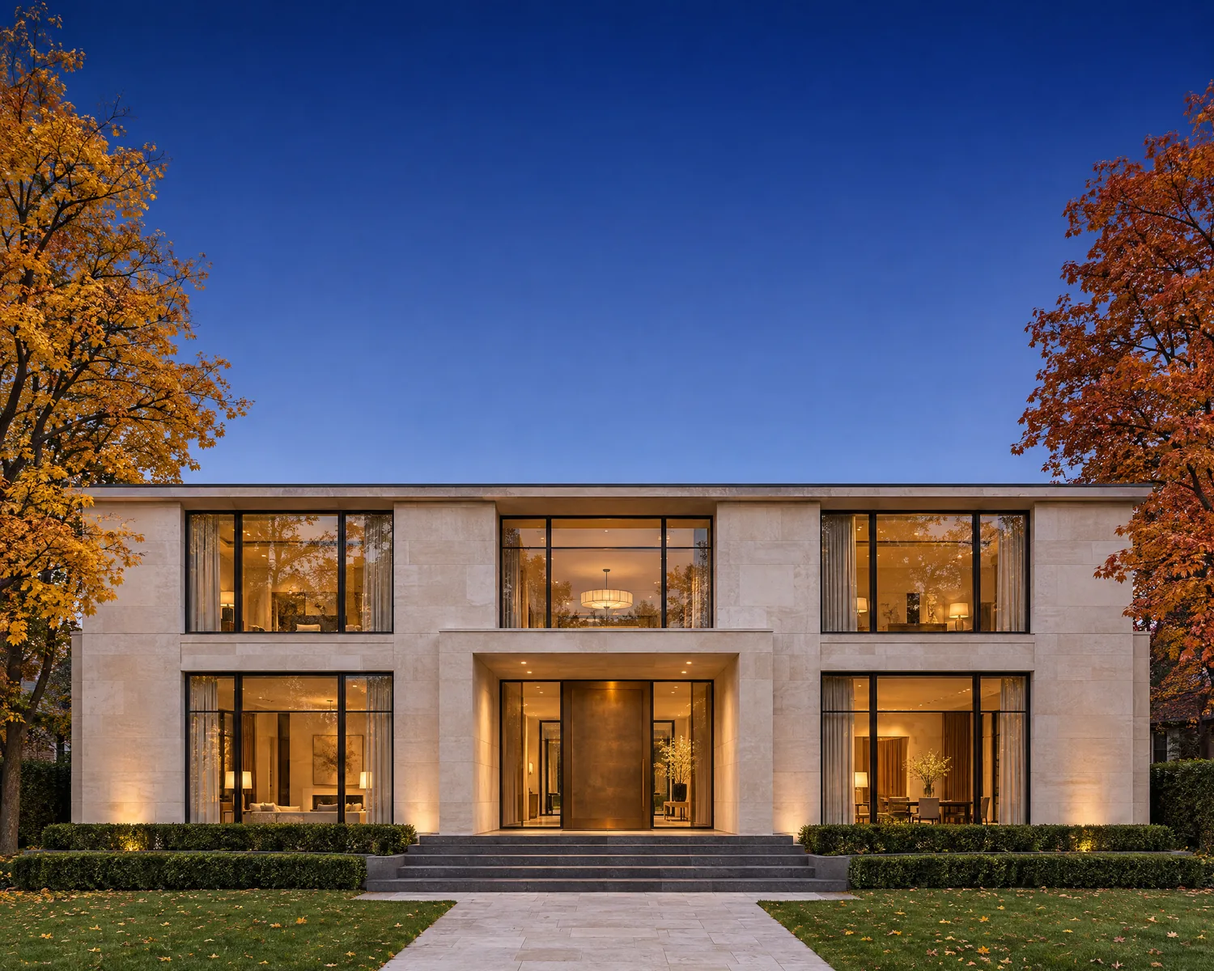
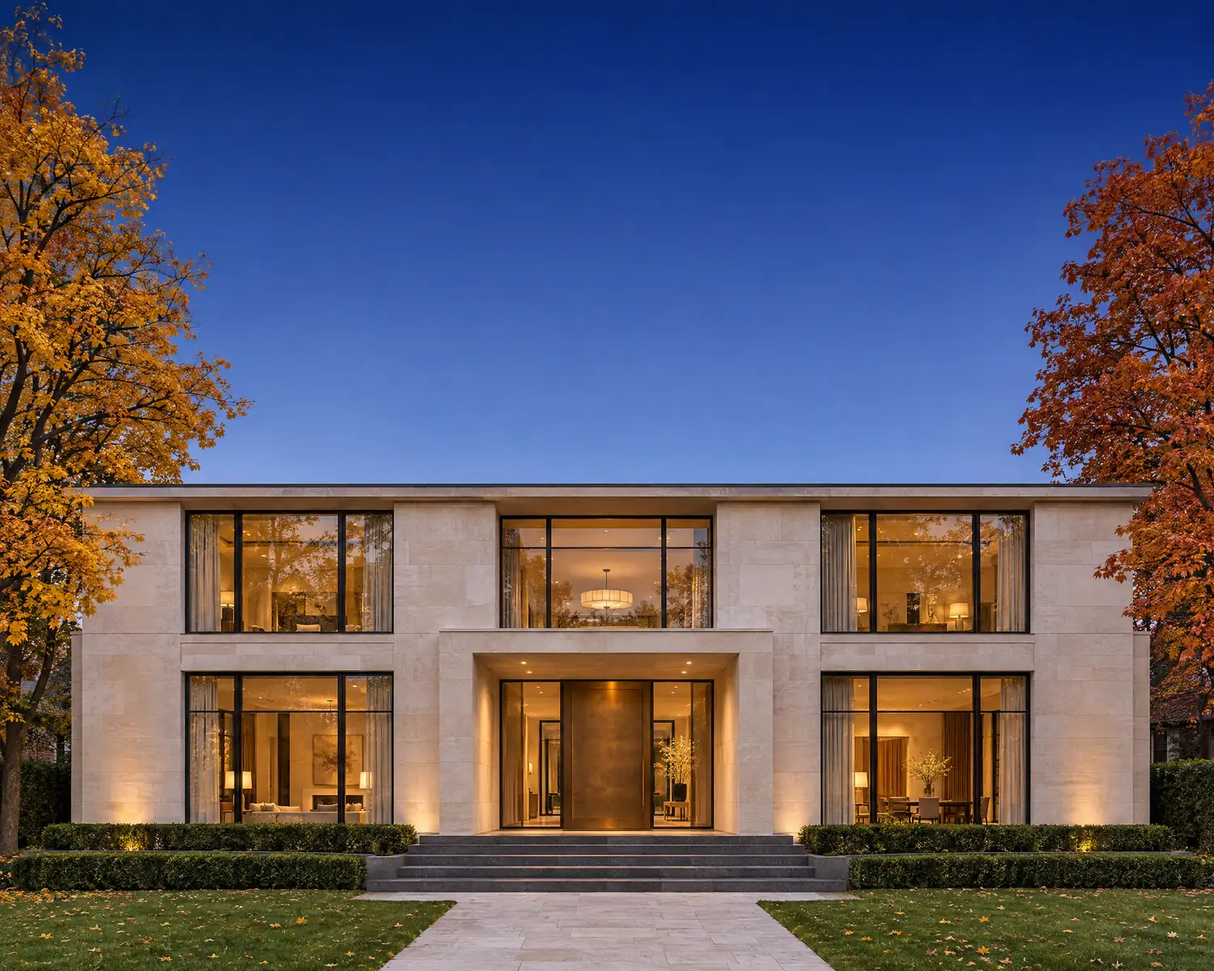
Speed up first load: defer walkthrough frames, non-blocking fonts, lighter hero
- Walkthrough frames load on the first scroll, swipe or key press instead of at page load
  (10.4 MB on phones was downloading before the visitor did anything)
- Google Fonts stylesheet no longer blocks first paint
- Hero layers recompressed (590 KB to 400 KB); phone-sized walkthrough poster
- Logo link's accessible name now includes its visible text

diff --git a/docs/prd.html b/docs/prd.html
@@ -1,0 +1,297 @@
+<title>DV Tile Website PRD</title>
+<meta name="claude:viewport-fit-sides" content="cover">
+<link rel="preconnect" href="https://fonts.googleapis.com">
+<link rel="stylesheet" href="https://fonts.googleapis.com/css2?family=Familjen+Grotesk:wght@500;600&family=Newsreader:opsz,wght@6..72,400;6..72,500&family=Pinyon+Script&display=swap">
+<style>
+/* Layout: a single reading column with a sticky contents rail on wide screens. */
+:root {
+  --bg: #f2f2ef; --surface: #fbfbf9; --fg: #1f2423; --muted: #545a57;
+  --line: rgba(31, 36, 35, 0.14); --accent: #22403a; --bronze: #8c6b44; --tag: #e4e7e2;
+  --display: "Familjen Grotesk", "Helvetica Neue", Arial, sans-serif;
+  --text: "Newsreader", Georgia, serif;
+  --script: "Pinyon Script", cursive;
+}
+@media (prefers-color-scheme: dark) { :root:not([data-theme="light"]) {
+  --bg: #121a18; --surface: #18221f; --fg: #e9ebe6; --muted: #a7aea9;
+  --line: rgba(233, 235, 230, 0.14); --accent: #9fc3b6; --bronze: #c9a274; --tag: #22302c; color-scheme: dark } }
+:root[data-theme="dark"] {
+  --bg: #121a18; --surface: #18221f; --fg: #e9ebe6; --muted: #a7aea9;
+  --line: rgba(233, 235, 230, 0.14); --accent: #9fc3b6; --bronze: #c9a274; --tag: #22302c; color-scheme: dark }
+* { box-sizing: border-box; }
+body { background: var(--bg); color: var(--fg); font: 400 1.0625rem/1.65 var(--text); }
+.wrap { max-width: 72rem; margin: 0 auto; padding-block: 48px 96px;
+  padding-left: max(16px, env(safe-area-inset-left, 0px)); padding-right: max(16px, env(safe-area-inset-right, 0px));
+  display: grid; grid-template-columns: 14rem minmax(0, 1fr); gap: 56px; }
+header.doc { grid-column: 1 / -1; padding-bottom: 32px; border-bottom: 1px solid var(--line); }
+.brand { font: 600 0.9375rem/1 var(--display); letter-spacing: 0.18em; color: var(--accent); }
+.brand span { display: block; font: 400 1.25rem/1.2 var(--script); letter-spacing: 0; color: var(--bronze); }
+h1 { font: 500 clamp(2.4rem, 1.4rem + 3.6vw, 4.2rem)/1 var(--display); letter-spacing: -0.03em; margin: 28px 0 16px; text-wrap: balance; }
+.meta { display: flex; flex-wrap: wrap; gap: 8px 24px; font: 500 0.875rem/1.4 var(--display); color: var(--muted); }
+nav.toc { position: sticky; top: calc(24px + env(safe-area-inset-top, 0px)); align-self: start; font: 500 0.875rem/1.4 var(--display); }
+nav.toc ol { list-style: none; margin: 0; padding: 0; display: grid; gap: 2px; counter-reset: s; }
+nav.toc li { counter-increment: s; }
+nav.toc a { display: flex; gap: 10px; padding: 6px 0; color: var(--muted); text-decoration: none; }
+nav.toc a::before { content: counter(s); color: var(--bronze); width: 1.4em; }
+nav.toc a:hover { color: var(--fg); }
+main { min-width: 0; counter-reset: sec; }
+section { padding: 8px 0 40px; border-bottom: 1px solid var(--line); margin-bottom: 40px; }
+h2 { font: 500 1.875rem/1.15 var(--display); letter-spacing: -0.02em; margin: 0 0 18px; text-wrap: balance; counter-increment: sec; }
+h2::before { content: counter(sec) "  "; color: var(--bronze); white-space: pre; }
+h3 { font: 600 1.125rem/1.3 var(--display); margin: 28px 0 8px; }
+p, li { max-width: 40em; }
+p { margin: 0 0 14px; }
+ul { padding-left: 1.2em; margin: 0 0 14px; }
+li { margin-bottom: 6px; }
+strong { font-weight: 500; color: var(--fg); }
+.tblwrap { overflow-x: auto; margin: 12px 0 18px; }
+table { border-collapse: collapse; width: 100%; min-width: 34rem; font-size: 0.9688rem; }
+th, td { text-align: left; vertical-align: top; padding: 10px 12px 10px 0; border-bottom: 1px solid var(--line); }
+th { font: 600 0.8125rem/1.3 var(--display); color: var(--muted); letter-spacing: 0.02em; }
+td:first-child { font-family: var(--display); font-weight: 500; white-space: nowrap; }
+.tag { display: inline-block; padding: 2px 9px; border-radius: 999px; background: var(--tag); font: 600 0.75rem/1.6 var(--display); color: var(--fg); white-space: nowrap; }
+.tag.p0 { background: var(--accent); color: var(--bg); }
+.tag.done { background: transparent; border: 1px solid var(--accent); color: var(--accent); }
+.callout { background: var(--surface); border: 1px solid var(--line); border-radius: 10px; padding: 18px 20px; margin: 16px 0; }
+.callout p:last-child { margin: 0; }
+a { color: var(--accent); text-underline-offset: 0.2em; }
+a:focus-visible { outline: 2px solid var(--bronze); outline-offset: 3px; border-radius: 3px; }
+@media (max-width: 860px) { .wrap { grid-template-columns: 1fr; gap: 24px; } nav.toc { position: static; } }
+</style>
+
+<div class="wrap">
+  <header class="doc">
+    <div class="brand">DV TILE<span>Don Valley Tile</span></div>
+    <h1>dvtile.ca product requirements</h1>
+    <div class="meta"><span>Version 1.0</span><span>8 November 2026</span><span>Owner: DV Tile</span><span>Status: v1 built, in review</span></div>
+  </header>
+
+  <nav class="toc" aria-label="Contents">
+    <ol>
+      <li><a href="#summary">Summary</a></li>
+      <li><a href="#audience">Audience</a></li>
+      <li><a href="#goals">Goals and metrics</a></li>
+      <li><a href="#positioning">Positioning</a></li>
+      <li><a href="#brand">Brand identity</a></li>
+      <li><a href="#scope">Site structure</a></li>
+      <li><a href="#requirements">Requirements</a></li>
+      <li><a href="#content">Content and imagery</a></li>
+      <li><a href="#seo">Local SEO</a></li>
+      <li><a href="#tech">Technical</a></li>
+      <li><a href="#roadmap">Roadmap</a></li>
+      <li><a href="#risks">Risks and open questions</a></li>
+    </ol>
+  </nav>
+
+  <main>
+    <section id="summary">
+      <h2>Summary</h2>
+      <p>dvtile.ca is the main sales tool for DV Tile (Don Valley Tile), a Toronto flooring contractor that installs marble, granite, natural stone, large-format porcelain and tile. The site exists to turn affluent GTA homeowners, and the designers and builders who work for them, into booked site visits.</p>
+      <p>Version 1 replaces a showroom-style page with a contractor site built around craftsmanship. It opens on a limestone manor at blue hour, walks the visitor through eight close-up installation details, and presents the full Olympia Tile + Stone catalogue as something DV Tile supplies and installs.</p>
+      <div class="callout"><p><strong>One job:</strong> a homeowner in Forest Hill, Rosedale or Oakville finishes the page believing DV Tile can be trusted with Calacatta in their ensuite, and books a site visit.</p></div>
+    </section>
+
+    <section id="audience">
+      <h2>Audience</h2>
+      <h3>Primary: affluent GTA homeowners</h3>
+      <ul>
+        <li>Owners of detached homes in Forest Hill, Rosedale, Lawrence Park, the Bridle Path, Hoggs Hollow, the Kingsway, Kleinburg, King City and Oakville.</li>
+        <li>Mid-renovation or planning one: ensuites, kitchens, whole-floor stone, terraces and pools. Often a new build or a gut renovation.</li>
+        <li>They buy on trust and evidence of care, not price. Their fear is a visible mistake in an expensive material: lippage, mismatched veins, a leaking shower.</li>
+        <li>They browse on a phone in the evening and come back on a laptop to decide.</li>
+      </ul>
+      <h3>Secondary: the trade</h3>
+      <ul>
+        <li>Interior designers and architects who need an installer who follows drawings and protects their reputation.</li>
+        <li>Custom home builders who need a reliable stone sub-trade with capacity.</li>
+      </ul>
+      <h3>What each needs from the site</h3>
+      <div class="tblwrap"><table>
+        <thead><tr><th>Visitor</th><th>Question they arrive with</th><th>Where the site answers it</th></tr></thead>
+        <tbody>
+          <tr><td>Homeowner</td><td>Will this look as good as the slab did?</td><td>Detail walkthrough, process, FAQ on flatness</td></tr>
+          <tr><td>Homeowner</td><td>Can they get the stone I want?</td><td>Olympia catalogue section</td></tr>
+          <tr><td>Homeowner</td><td>Do they work in my area?</td><td>Service areas, schema areaServed</td></tr>
+          <tr><td>Designer</td><td>Will they follow my layout and detailing?</td><td>Process, FAQ, trade line in contact</td></tr>
+          <tr><td>Builder</td><td>Can they price from drawings?</td><td>Contact copy, form project type</td></tr>
+        </tbody>
+      </table></div>
+    </section>
+
+    <section id="goals">
+      <h2>Goals and metrics</h2>
+      <div class="tblwrap"><table>
+        <thead><tr><th>Goal</th><th>Metric</th><th>Target (first 90 days)</th></tr></thead>
+        <tbody>
+          <tr><td>Generate qualified leads</td><td>Site visit requests submitted</td><td>Baseline in month 1, then +25% per quarter</td></tr>
+          <tr><td>Convert visitors</td><td>Form submissions ÷ unique visitors</td><td>2% or better</td></tr>
+          <tr><td>Win local search</td><td>Ranking for "marble floor installation Toronto" and neighbourhood variants</td><td>Top 10 in Google for 5 tracked terms</td></tr>
+          <tr><td>Engage with the work</td><td>Share of visitors who reach the last walkthrough stop</td><td>40% or better</td></tr>
+          <tr><td>Stay fast</td><td>Largest Contentful Paint on 4G mobile</td><td>Under 2.5 s</td></tr>
+        </tbody>
+      </table></div>
+      <p>Targets are proposals to confirm once a month of real traffic exists. Measuring them needs privacy-respecting analytics, which v1 deliberately does not include (see Roadmap).</p>
+    </section>
+
+    <section id="positioning">
+      <h2>Positioning</h2>
+      <p><strong>Statement:</strong> For GTA homeowners finishing a fine home in stone, DV Tile is the installation crew that treats a floor like joinery: laid out on paper first, prepared properly, and set flat to the millimetre, with the full Olympia range to choose from.</p>
+      <h3>Proof points the site must carry</h3>
+      <ul>
+        <li>A layout drawing and dry-laid slabs approved before any cut.</li>
+        <li>Lippage under a millimetre on large format, through levelling and full mortar coverage.</li>
+        <li>Showers waterproofed and flood-tested before tile.</li>
+        <li>One crew from preparation to sealing.</li>
+        <li>Official installation partner of Olympia Tile + Stone, plus Centura.</li>
+      </ul>
+      <h3>Voice</h3>
+      <p>Calm, specific, tradesman-precise. Talk in materials, millimetres and steps, never in superlatives. No invented statistics, testimonials or awards: add them only when they are real.</p>
+    </section>
+
+    <section id="brand">
+      <h2>Brand identity</h2>
+      <h3>Logo</h3>
+      <p>Four square tiles in a 2 × 2 grid with a bronze marble vein running through them in an S-curve, cut cleanly at each grout joint. The vein stands for the Don Valley and the parkway that follows it; matching it across four tiles shows the book-matching skill DV Tile sells. Wordmark: DV TILE in wide-tracked Familjen Grotesk, with Don Valley Tile in Pinyon Script beneath.</p>
+      <ul>
+        <li>Light backgrounds: green tiles, bronze vein. Dark backgrounds: pale marble tiles, bronze vein.</li>
+        <li>Files: <code>brand/mark.svg</code>, <code>brand/mark-reverse.svg</code>, and horizontal and stacked PNG lockups in <code>brand/</code>.</li>
+        <li>Clear space: the width of one tile on every side. Minimum mark size: 24 px.</li>
+      </ul>
+      <h3>Colour</h3>
+      <div class="tblwrap"><table>
+        <thead><tr><th>Token</th><th>Hex</th><th>Use</th></tr></thead>
+        <tbody>
+          <tr><td>Verde</td><td>#22403A</td><td>Primary brand, buttons, logo tiles</td></tr>
+          <tr><td>Verde deep</td><td>#182F2A</td><td>Product section, walkthrough fallback</td></tr>
+          <tr><td>Calacatta</td><td>#F2F2EF</td><td>Page surface</td></tr>
+          <tr><td>Graphite</td><td>#1F2423</td><td>Body text</td></tr>
+          <tr><td>Bronze</td><td>#8C6B44</td><td>Accent: vein, focus rings, step numbers</td></tr>
+          <tr><td>Travertine</td><td>#B8B2A6</td><td>Quiet dividers</td></tr>
+        </tbody>
+      </table></div>
+      <h3>Type</h3>
+      <p>Familjen Grotesk for display and interface, Newsreader for reading text and walkthrough titles, Pinyon Script only for the Don Valley Tile signature. All three are free under the SIL Open Font License.</p>
+    </section>
+
+    <section id="scope">
+      <h2>Site structure</h2>
+      <p>A single long page, in this order. Each section has an anchor for the nav and for sharing.</p>
+      <div class="tblwrap"><table>
+        <thead><tr><th>Section</th><th>Purpose</th><th>Status</th></tr></thead>
+        <tbody>
+          <tr><td>Hero</td><td>Set the register: limestone manor, DV TILE behind the roofline, glass nav, booking button</td><td><span class="tag done">Built</span></td></tr>
+          <tr><td>Detail walkthrough</td><td>Eight close-ups of craftsmanship, one per scroll</td><td><span class="tag done">Built</span></td></tr>
+          <tr><td>What we install</td><td>Eight services in plain language</td><td><span class="tag done">Built</span></td></tr>
+          <tr><td>Olympia products</td><td>Full catalogue by look, room, material, slab stone and finish, linked to Olympia</td><td><span class="tag done">Built</span></td></tr>
+          <tr><td>Process</td><td>Five steps from site visit to sealing</td><td><span class="tag done">Built</span></td></tr>
+          <tr><td>Where we work</td><td>GTA neighbourhoods</td><td><span class="tag done">Built</span></td></tr>
+          <tr><td>FAQ</td><td>Objections and search questions</td><td><span class="tag done">Built</span></td></tr>
+          <tr><td>Book a site visit</td><td>Form, address, trade note</td><td><span class="tag done">Built</span></td></tr>
+          <tr><td>Portfolio</td><td>Real completed projects</td><td><span class="tag">Phase 2</span></td></tr>
+        </tbody>
+      </table></div>
+    </section>
+
+    <section id="requirements">
+      <h2>Requirements</h2>
+      <h3>Functional</h3>
+      <div class="tblwrap"><table>
+        <thead><tr><th>ID</th><th>Requirement</th><th>Priority</th></tr></thead>
+        <tbody>
+          <tr><td>F1</td><td>Visitors can request a site visit with name, email, optional phone, project type, preferred date and notes. Requests arrive by email to the DV Tile inbox.</td><td><span class="tag p0">P0</span></td></tr>
+          <tr><td>F2</td><td>The form validates in place, explains errors next to the field, and confirms success in words.</td><td><span class="tag p0">P0</span></td></tr>
+          <tr><td>F3</td><td>A booking button is reachable from every screen: in the nav, at the end of the walkthrough, and floating once the hero is gone.</td><td><span class="tag p0">P0</span></td></tr>
+          <tr><td>F4</td><td>The walkthrough moves one detail per wheel turn, swipe or arrow key, then hands back normal scrolling.</td><td><span class="tag p0">P0</span></td></tr>
+          <tr><td>F5</td><td>Every Olympia category links to the matching page on olympiatile.com in a new tab.</td><td><span class="tag p0">P0</span></td></tr>
+          <tr><td>F6</td><td>Spam protection on the form without a visible challenge (honeypot field today).</td><td><span class="tag">P1</span></td></tr>
+          <tr><td>F7</td><td>Click-to-call phone number in nav, contact and footer.</td><td><span class="tag">P1</span></td></tr>
+          <tr><td>F8</td><td>Photo upload on the form (plans, current floor, inspiration).</td><td><span class="tag">P2</span></td></tr>
+        </tbody>
+      </table></div>
+      <h3>Experience and quality</h3>
+      <ul>
+        <li>Works from 360 px phones to 2560 px displays with no sideways scrolling.</li>
+        <li>WCAG 2.2 AA: 4.5:1 text contrast, visible focus rings, 44 px touch targets, labelled form fields, skip link.</li>
+        <li>Reduced motion: the walkthrough jumps between details and the hero shows without its entrance.</li>
+        <li>Without JavaScript, every caption and section is still readable in order.</li>
+        <li>No third-party trackers or chat widgets without an explicit decision.</li>
+      </ul>
+    </section>
+
+    <section id="content">
+      <h2>Content and imagery</h2>
+      <h3>v1 imagery</h3>
+      <p>The hero, rooms and close-ups are AI-rendered images of one concept home, generated with Higgsfield for consistency of light and materials. The footer states this. They show the standard of finish, not a completed DV Tile job.</p>
+      <h3>Walkthrough stops</h3>
+      <div class="tblwrap"><table>
+        <thead><tr><th>Stop</th><th>Detail</th><th>What it proves</th></tr></thead>
+        <tbody>
+          <tr><td>Entry hall</td><td>Waterjet marble medallion with brass ring</td><td>Custom floor design</td></tr>
+          <tr><td>Living room</td><td>Herringbone limestone to marble hearth, brass strip</td><td>Clean transitions</td></tr>
+          <tr><td>Kitchen</td><td>Book-matched quartzite backsplash with LED ledge</td><td>Slab backsplash and lighting</td></tr>
+          <tr><td>Powder room</td><td>Verde Alpi slab, stone basin, under-shelf LED</td><td>Mitred slab work</td></tr>
+          <tr><td>Primary shower</td><td>LED-lit custom niche, brass valve</td><td>Custom niches</td></tr>
+          <tr><td>Steam shower</td><td>Rainhead, handheld, linear drain, LED cove</td><td>Premium fixtures, waterproofing</td></tr>
+          <tr><td>Ensuite at night</td><td>Under-vanity and cove LED on marble</td><td>Lighting planned with stone</td></tr>
+          <tr><td>Pool terrace</td><td>Limestone coping, granite steps, LED step lights</td><td>Frost-rated outdoor stone</td></tr>
+        </tbody>
+      </table></div>
+      <h3>Phase 2: real work</h3>
+      <ul>
+        <li>Photograph every finished job: one wide, three details, one in raking light that proves flatness.</li>
+        <li>Replace concept frames with a real walkthrough once three strong projects exist.</li>
+        <li>Collect written client reviews with permission to publish name and neighbourhood.</li>
+      </ul>
+      <h3>Olympia content rules</h3>
+      <p>Use Olympia’s category names, product names and logo as their partner. Link to their pages for specifications and photos rather than copying descriptions or images, unless Olympia confirms in writing that dealers may reuse them.</p>
+    </section>
+
+    <section id="seo">
+      <h2>Local SEO</h2>
+      <ul>
+        <li>Title and description lead with "marble, stone and tile flooring contractor in Toronto".</li>
+        <li>Structured data: HomeAndConstructionBusiness with areaServed and services; FAQPage for the FAQ.</li>
+        <li>Claim and complete the Google Business Profile as DV Tile (Don Valley Tile), with the same name, address and phone as the site.</li>
+        <li>Phase 2: one page per high-value service (marble floors, shower tile, kitchen backsplash, heated floors) and per cluster of neighbourhoods, each with real project photos.</li>
+        <li>Earn links from Olympia’s installer listings, designer partners and local renovation guides.</li>
+      </ul>
+      <h3>Target terms</h3>
+      <p>marble floor installation Toronto; natural stone flooring contractor GTA; large format porcelain installer Toronto; luxury shower tile installation Toronto; kitchen backsplash installer Forest Hill; heated marble floors Toronto; stone flooring Oakville.</p>
+    </section>
+
+    <section id="tech">
+      <h2>Technical</h2>
+      <ul>
+        <li>Static HTML, CSS and JavaScript with no build step and no libraries, hosted on Vercel from the <code>elevatefitnessto-del/dvtile</code> repository; pushes to <code>main</code> deploy production.</li>
+        <li>Form: Vercel serverless function sending through Resend. Needs <code>RESEND_API_KEY</code>, <code>APPOINTMENTS_TO</code> and <code>APPOINTMENTS_FROM</code> set in the project.</li>
+        <li>Walkthrough: 281 WebP frames per orientation (about 24 MB landscape, 11 MB portrait), loaded coarse-first only when the walkthrough is near, cached as immutable.</li>
+        <li>Fonts from Google Fonts. Security headers for nosniff, referrer and permissions policy.</li>
+      </ul>
+    </section>
+
+    <section id="roadmap">
+      <h2>Roadmap</h2>
+      <div class="tblwrap"><table>
+        <thead><tr><th>Phase</th><th>Scope</th><th>Depends on</th></tr></thead>
+        <tbody>
+          <tr><td>1 (now)</td><td>Rebrand, hero, detail walkthrough, Olympia catalogue, FAQ, form, schema</td><td>Done; needs form email variables</td></tr>
+          <tr><td>1.1</td><td>Phone number, Google Business Profile, cookieless analytics (for example Vercel Web Analytics)</td><td>Owner decision on analytics</td></tr>
+          <tr><td>2</td><td>Portfolio with real projects, reviews, service and area pages</td><td>Photography of finished jobs</td></tr>
+          <tr><td>3</td><td>Trade portal: drawing upload, quote status, designer referral tracking</td><td>Lead volume justifying it</td></tr>
+        </tbody>
+      </table></div>
+    </section>
+
+    <section id="risks">
+      <h2>Risks and open questions</h2>
+      <ul>
+        <li><strong>Rendered imagery:</strong> buyers may assume the concept home is a real project. Mitigation: footer disclosure now, real photography in phase 2.</li>
+        <li><strong>Address:</strong> is 44 Jackes Avenue a place clients should visit, or a mailing address only?</li>
+        <li><strong>Phone:</strong> no number is published yet, and luxury buyers often call before they fill a form.</li>
+        <li><strong>Form delivery:</strong> confirm the three Resend variables are set in Vercel, then send a test request.</li>
+        <li><strong>Olympia assets:</strong> confirm whether Olympia allows partners to reuse product photography.</li>
+        <li><strong>Centura:</strong> no official Centura logo is in the repository; add one if they provide it.</li>
+        <li><strong>Page weight:</strong> walkthrough frames are heavy on cellular data. Watch real-user metrics and lower frame quality if needed.</li>
+      </ul>
+    </section>
+  </main>
+</div>

diff --git a/public/index.html b/public/index.html
@@ -19,12 +19,13 @@
   <link rel="icon" href="/assets/favicon.svg" type="image/svg+xml">
   <link rel="preconnect" href="https://fonts.googleapis.com">
   <link rel="preconnect" href="https://fonts.gstatic.com" crossorigin>
-  <link rel="stylesheet" href="https://fonts.googleapis.com/css2?family=Familjen+Grotesk:wght@400;500;600&family=Pinyon+Script&family=Newsreader:ital,opsz,wght@0,6..72,300..500;1,6..72,300..400&display=swap">
-  <link rel="preload" as="image" href="/assets/house-bg.webp?v=1" fetchpriority="high">
-  <link rel="preload" as="image" href="/assets/house-fg.webp?v=1" fetchpriority="high">
-  <link rel="stylesheet" href="/styles.css?v=dv1">
-  <link rel="stylesheet" href="/tour.css?v=dv1">
-  <link rel="stylesheet" href="/site.css?v=dv1">
+  <link rel="preload" as="style" href="https://fonts.googleapis.com/css2?family=Familjen+Grotesk:wght@400;500;600&family=Pinyon+Script&family=Newsreader:ital,opsz,wght@0,6..72,300..500;1,6..72,300..400&display=swap" onload="this.onload=null;this.rel='stylesheet'">
+  <noscript><link rel="stylesheet" href="https://fonts.googleapis.com/css2?family=Familjen+Grotesk:wght@400;500;600&family=Pinyon+Script&family=Newsreader:ital,opsz,wght@0,6..72,300..500;1,6..72,300..400&display=swap"></noscript>
+  <link rel="preload" as="image" href="/assets/house-bg.webp?v=2" fetchpriority="high">
+  <link rel="preload" as="image" href="/assets/house-fg.webp?v=2" fetchpriority="high">
+  <link rel="stylesheet" href="/styles.css?v=dv2">
+  <link rel="stylesheet" href="/tour.css?v=dv2">
+  <link rel="stylesheet" href="/site.css?v=dv2">
   <script type="application/ld+json">
   {
     "@context": "https://schema.org",
@@ -65,7 +66,7 @@
 
       <!-- Layer 1: full photo (sky + house) -->
       <div class="stage stage--bg" aria-hidden="true">
-        <img class="stage__img" src="/assets/house-bg.webp?v=1" width="1500" height="1200" alt="" decoding="async" fetchpriority="high">
+        <img class="stage__img" src="/assets/house-bg.webp?v=2" width="1500" height="1200" alt="" decoding="async" fetchpriority="high">
         <div class="stage__sky"></div>
       </div>
 
@@ -76,14 +77,14 @@
 
       <!-- Layer 3: house + trees cut out of the same photo -->
       <div class="stage stage--fg" aria-hidden="true">
-        <img class="stage__img" src="/assets/house-fg.webp?v=1" width="1500" height="1200" alt="" decoding="async" fetchpriority="high">
+        <img class="stage__img" src="/assets/house-fg.webp?v=2" width="1500" height="1200" alt="" decoding="async" fetchpriority="high">
       </div>
 
       <div class="hero__shade" aria-hidden="true"></div>
 
       <!-- Layer 4: interface -->
       <header class="nav" data-reveal>
-        <a class="brand" href="/" aria-label="DV Tile home">
+        <a class="brand" href="/" aria-label="DV TILE Don Valley Tile, home">
           <svg class="brand__mark" viewBox="0 0 100 100" aria-hidden="true"><defs><clipPath id="nav-mark"><rect x="4" y="4" width="44.5" height="44.5" rx="1.2"/><rect x="51.5" y="4" width="44.5" height="44.5" rx="1.2"/><rect x="4" y="51.5" width="44.5" height="44.5" rx="1.2"/><rect x="51.5" y="51.5" width="44.5" height="44.5" rx="1.2"/></clipPath></defs><g fill="#eceae4"><rect x="4" y="4" width="44.5" height="44.5" rx="1.2"/><rect x="51.5" y="4" width="44.5" height="44.5" rx="1.2"/><rect x="4" y="51.5" width="44.5" height="44.5" rx="1.2"/><rect x="51.5" y="51.5" width="44.5" height="44.5" rx="1.2"/></g><g clip-path="url(#nav-mark)"><path fill="#a9824f" d="M-2 19 C 28 13, 40 38, 50 49 C 60 60, 72 85, 102 79 L 102 83.5 C 69 91, 55 66, 46.5 55 C 37.5 43, 27 21, -2 24.5 Z"/><path fill="#bfa27a" d="M57 -2 C 59 15, 73 25, 102 22 L 102 23.6 C 71 27, 57 17, 55.4 -2 Z"/><path fill="#bfa27a" d="M-2 66 C 14 63, 24 70, 30 102 L 28.4 102 C 22.5 72, 13 65.5, -2 67.6 Z"/></g></svg>
           <span class="brand__words"><span class="brand__name">DV TILE</span><span class="brand__script">Don Valley Tile</span></span>
         </a>
@@ -147,7 +148,7 @@
     <section class="tour" id="tour" data-frames="281" data-version="2" aria-labelledby="tour-title">
       <div class="tour__sticky">
         <canvas class="tour__canvas" aria-hidden="true"></canvas>
-        <img class="tour__poster" src="/assets/tour/poster.webp?v=2" width="1600" height="900" alt="" decoding="async" loading="lazy">
+        <img class="tour__poster" src="/assets/tour/poster.webp?v=3" srcset="/assets/tour/poster-m.webp?v=3 640w, /assets/tour/poster.webp?v=3 1600w" sizes="100vw" width="1600" height="900" alt="" decoding="async" loading="lazy">
         <div class="tour__shade" aria-hidden="true"></div>
 
         <ol class="tour__beats">
@@ -456,10 +457,10 @@
     </div>
   </main>
   <a class="dock" href="#contact" hidden>Book a site visit</a>
-  <script src="/hero.js?v=dv1" defer></script>
-  <script src="/glass.js?v=dv1" defer></script>
-  <script src="/tour.js?v=dv1" defer></script>
-  <script src="/pager.js?v=dv1" defer></script>
-  <script src="/form.js?v=dv1" defer></script>
+  <script src="/hero.js?v=dv2" defer></script>
+  <script src="/glass.js?v=dv2" defer></script>
+  <script src="/tour.js?v=dv2" defer></script>
+  <script src="/pager.js?v=dv2" defer></script>
+  <script src="/form.js?v=dv2" defer></script>
 </body>
 </html>

diff --git a/public/tour.js b/public/tour.js
@@ -274,9 +274,18 @@
   });
 
   resize();
-  const io = new IntersectionObserver((entries) => {
-    if (entries.some((e) => e.isIntersecting)) { io.disconnect(); startLoading(); }
-  }, { rootMargin: "150% 0px" });
-  io.observe(tour);
+  // Frames are heavy (about 10 MB on phones). Load them on the visitor's first
+  // scroll, swipe or key press, or when the walkthrough is already on screen
+  // (a deep link or a reload partway down). Until then the poster stands in.
+  let started = false;
+  const begin = () => {
+    if (started) return;
+    started = true;
+    for (const ev of WAKE) removeEventListener(ev, begin);
+    startLoading();
+  };
+  const WAKE = ["scroll", "wheel", "touchstart", "keydown", "pointerdown"];
+  for (const ev of WAKE) addEventListener(ev, begin, { passive: true });
+  if (tour.getBoundingClientRect().top < innerHeight) begin();
   schedule();
 })();
